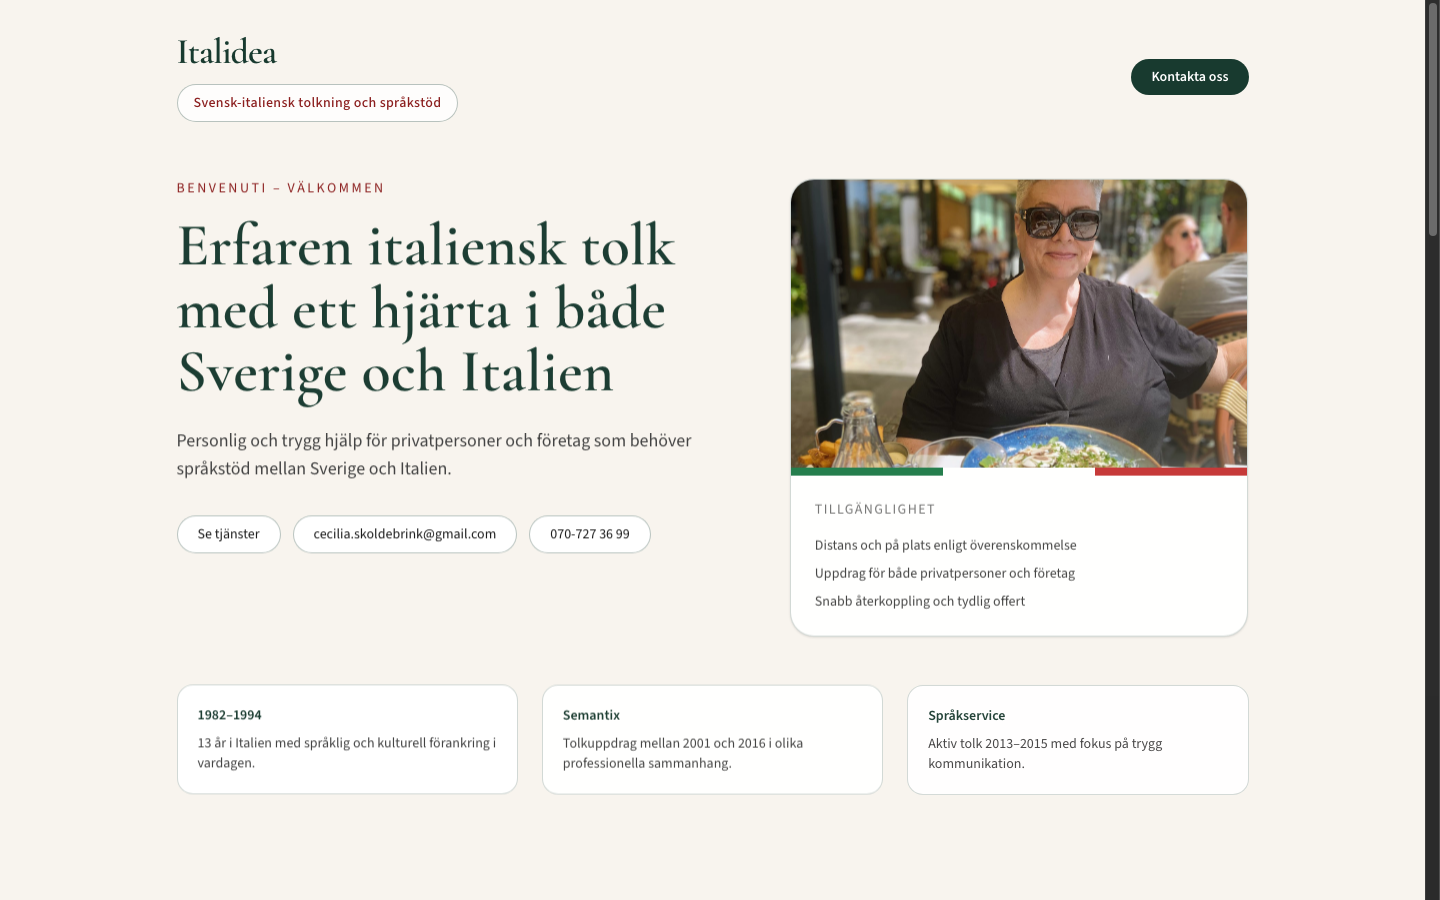
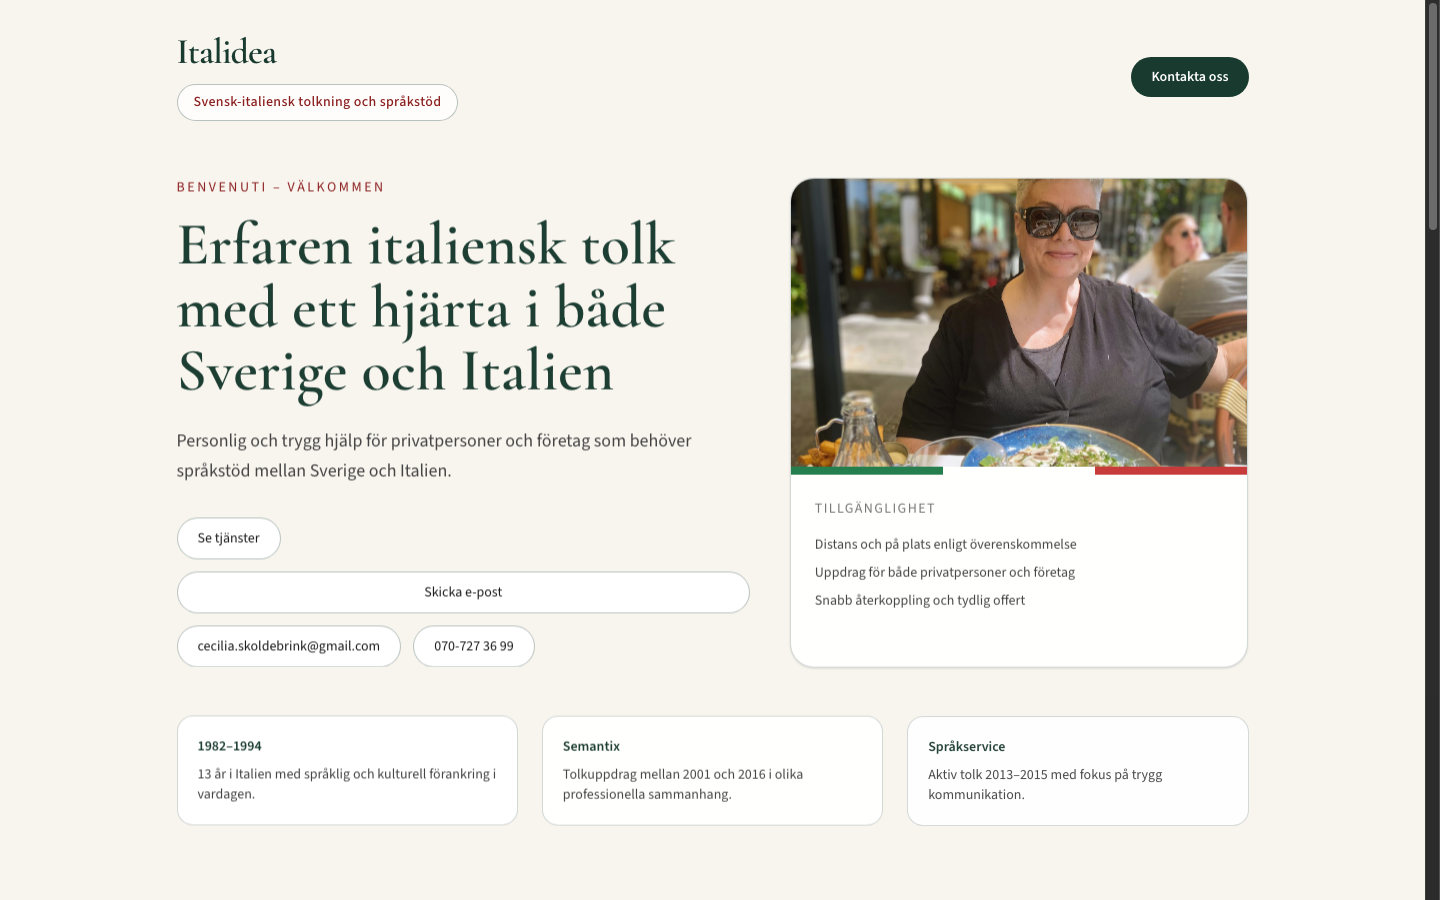
docs: refresh README screenshots after mobile layout fixes
Update hero and full-page captures for desktop and 390px mobile viewports.

diff --git a/README.md b/README.md
@@ -2,7 +2,9 @@
 
 Marketing website for **Italidea** — Swedish–Italian interpretation, mediation, and practical language support for private clients and businesses.
 
-![Italidea homepage](./docs/screenshots/hero-desktop.png)
+| Desktop (1440px) | Mobile (390px) |
+| --- | --- |
+| ![Hero — desktop](./docs/screenshots/hero-desktop.png) | ![Hero — mobile](./docs/screenshots/hero-mobile.png) |
 
 ## Live site
 
@@ -31,6 +33,7 @@ A warm, Italian-inspired single-page site that helps visitors quickly understand
 - Client-ready marketing site with clear information hierarchy
 - Static Next.js export for fast Netlify hosting
 - Scroll reveals and subtle hover motion (with `prefers-reduced-motion` support)
+- Mobile-first contact CTAs and overflow-safe layout on narrow viewports
 - Accessible contact flow with dedicated `/tack` confirmation page
 - Royalty-free imagery with source credits
 
@@ -77,10 +80,13 @@ Configured in [`netlify.toml`](./netlify.toml):
 
 ## Screenshots
 
-| View | |
+Captured from the current production build (June 2026) after the mobile overflow and responsive layout fixes.
+
+| View | Preview |
 | --- | --- |
 | Desktop hero | ![](./docs/screenshots/hero-desktop.png) |
-| Mobile hero | ![](./docs/screenshots/hero-mobile.png) |
+| Mobile hero (390×844) | ![](./docs/screenshots/hero-mobile.png) |
+| Full page (desktop) | ![](./docs/screenshots/full-page-desktop.png) |
 
 ## Repository naming
 
